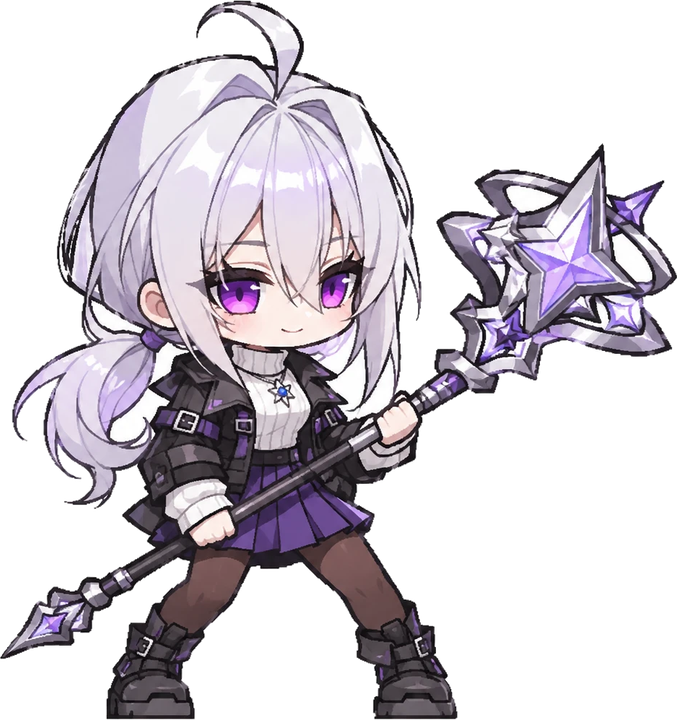
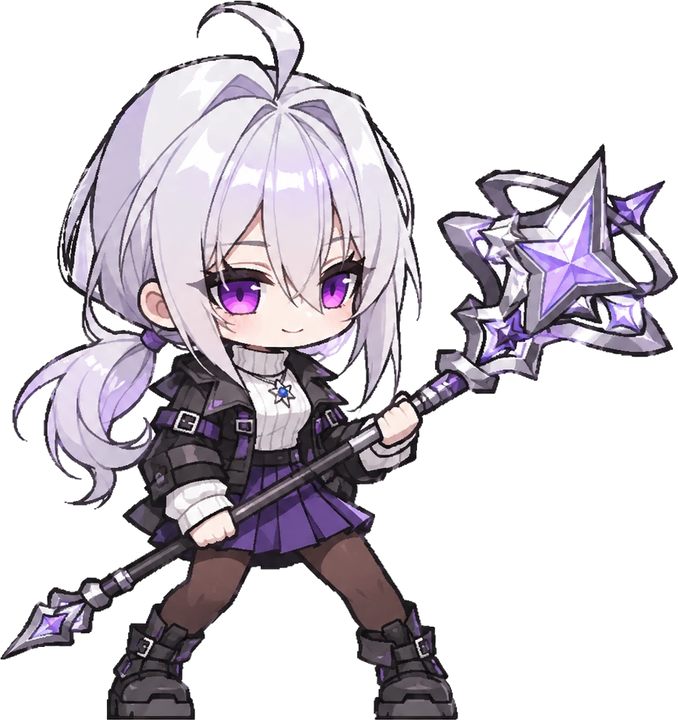
Clean Ine cutout; better background removal and prompts
- sd-import: shared removeBg for all paths, enclosed-hole removal
  (automatic on chroma backgrounds, --hole-region for white ones),
  chroma keying with green/magenta despill, 2-pass edge defringe
- Re-imported Ine with staff/ponytail/neck gaps removed
- Prompts ask for real transparent PNG or flat #00FF00 background
  (magenta for green characters) including inner gaps

Claude-Session: https://claude.ai/code/session_01LsHLuk3B3LPSkq4Gu6VJxc

diff --git a/docs/SD_이미지_생성_가이드.md b/docs/SD_이미지_생성_가이드.md
@@ -79,8 +79,15 @@ Character
 - holding an oversized, highly detailed mechanical {무기} (class: {클래스})
 
 Output
-- one character only, centered, entire body visible including feet
-- plain pure white background, no ground shadow, no text, no border
+- one character only, centered, entire body visible including feet, margin around it
+
+Background (important — the image will be cut out automatically):
+- PREFERRED: export as a PNG with a REAL transparent background (alpha channel). Do NOT draw a gray/white checkerboard pattern.
+- If a real transparent background is not possible: fill the ENTIRE background with one flat solid color #00FF00 (pure green),
+  no gradient, no shadow, no glow on the background. If the character has green in it, use #FF00FF (pure magenta) instead.
+- The background color must also fill every gap inside the silhouette (between arms and body, between hair strands,
+  inside rings or holes of the weapon). Never leave white fill in those gaps.
+- no ground shadow, no text, no border, no frame
 ```
 
 `{무기}`와 `{클래스}`는 아래 표에서 골라 바꾸면 된다.
@@ -96,7 +103,14 @@ Output
 | 서포터 | supporter | spell book / drone |
 | 스페셜리스트 | specialist | hook chain / dual daggers |
 
+### 배경(누끼) 규칙
+- **ChatGPT**: 투명 배경 PNG를 만들 수 있어서 가장 좋다. 결과에 회색·흰색 체크무늬가 *그려져* 있으면 진짜 투명이 아니니 아래 수정 문구로 다시 요청.
+- **Gemini**: 투명 배경을 못 만들기 때문에 **초록(#00FF00) 단색 배경**으로 받는다 (초록이 들어간 캐릭터는 마젠타 #FF00FF).
+- 흰 배경은 흰 머리·흰 옷과 구분이 안 돼서 누끼가 지저분해지니 쓰지 않는다.
+
 ### 수정할 때 쓰는 말 (생성 결과를 보고)
+- 체크무늬가 그려졌을 때: `That checkerboard is drawn, not transparent. Redo it on a flat solid #00FF00 green background instead.`
+- 틈이 하얗게 남았을 때: `Fill the gaps between the arms, hair and weapon with the same green background color too.`
 - 그림체가 다를 때: `Match the reference line thickness and shading more closely.`
 - 너무 작게/잘릴 때: `Show the full body including feet, centered, with margin.`
 - 방향이 반대일 때: `Face to the right in 3/4 view.`
@@ -119,6 +133,7 @@ Output
 | `--scale 1.2` | 무기가 너무 커서 캐릭터가 작아 보일 때 |
 | `--crop x,y,w,h` | 여러 캐릭터가 있는 시트에서 하나만 잘라 쓸 때 |
 | `--tolerance 20` | 배경 지우기가 캐릭터 일부까지 지울 때 (값을 낮춤) |
+| `--hole-region x0,y0,x1,y1` | 흰 배경 그림에서 캐릭터 안쪽에 갇힌 흰 틈을 지울 영역 (0~1 비율, 여러 개는 `;`). 초록/마젠타 배경이면 필요 없음 (자동) |
 
 `manifest.json`에서 `face: [x, y, w, h]` (0~1 비율)를 직접 넣으면 덱 카드에 보이는 얼굴 부분을 조정할 수 있다.
 

diff --git a/docs/SD_프롬프트/아이네.md b/docs/SD_프롬프트/아이네.md
@@ -26,13 +26,30 @@ Style (match image 3 closely):
 
 Output:
 - exactly one character, centered, entire body visible including feet, margin around it
-- plain pure white background, no ground shadow, no text, no border
+
+Background (important — the image will be cut out automatically):
+- PREFERRED: export as a PNG with a REAL transparent background (alpha channel). Do NOT draw a gray/white checkerboard pattern.
+- If a real transparent background is not possible: fill the ENTIRE background with one flat solid color #00FF00 (pure green),
+  no gradient, no shadow, no glow on the background. If the character has green in it, use #FF00FF (pure magenta) instead.
+- The background color must also fill every gap inside the silhouette (between arms and body, between hair strands,
+  inside rings or holes of the weapon). Never leave white fill in those gaps.
+- no ground shadow, no text, no border, no frame
+```
+
+> 아이네는 흰 머리·흰 스웨터라서 흰 배경이면 누끼가 지저분해진다. 반드시 투명 PNG 또는 초록 단색 배경으로 받을 것.
+
+**게임에 넣은 명령 (현재 그림, 흰 배경이라 틈 영역을 직접 지정)**
+```bash
+npm run sd:import -- .sd-raw/ine-gemini-1.webp ine --tolerance 24 \
+  --hole-region "0.70,0.27,0.93,0.50;0.275,0.43,0.295,0.45;0.563,0.464,0.583,0.484;0.358,0.476,0.378,0.496;0.572,0.483,0.592,0.503;0.336,0.527,0.356,0.547"
 ```
 
 **결과가 어긋나면 이어서 보낼 말**
 - 그림체가 다르면: `Match image 3's thick outlines, flat cel shading and chibi proportions more closely.`
 - 안 닮았으면: `Keep the silver-white hair, the bangs over one eye and the violet eyes exactly like images 1-2.`
-- 발이 잘리면: `Show the whole body including feet with white margin.`
+- 발이 잘리면: `Show the whole body including feet with margin.`
+- 체크무늬가 그려지면: `That checkerboard is drawn, not transparent. Redo it on a flat solid #00FF00 green background instead.`
+- 틈이 하얗게 남으면: `Fill the gaps between the arms, hair and staff with the same green background color too.`
 
 ---
 

diff --git a/CLAUDE.md b/CLAUDE.md
@@ -8,7 +8,7 @@
 
 ## SD 캐릭터 표준 방식 (사용자 확정)
 1. 사용자가 멤버 사진을 올림 → `docs/SD_프롬프트/<이름>.md`에 전용 프롬프트 작성 (그림체 레퍼런스: `.sd-ref/style-sheet.png`)
-2. 사용자가 무료 앱(Gemini/ChatGPT)으로 **대기 SD 그림 1장**을 생성해 올림
+2. 사용자가 무료 앱(Gemini/ChatGPT)으로 **대기 SD 그림 1장**을 생성해 올림 — 배경은 투명 PNG 또는 초록(#00FF00)/마젠타 단색 (흰 배경 금지)
 3. `npm run sd:import -- <그림> <멤버id>` → manifest에 `anchorX`(발), `face`(카드 얼굴), `tip`(무기 끝), `fxColor` 지정
 4. 공격 모션은 **코드로 붙이는 방식**이 표준 (프레임 시트 사용 안 함): `src/sd/ImageRig.ts`
 5. SD 도감 / 전투에서 확인 → build:web → 링크 재게시 → 커밋·푸시
